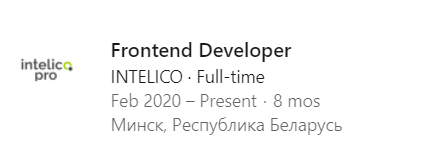
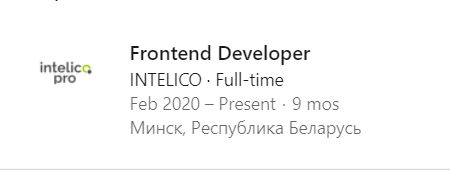
feat: intelico exp update

diff --git a/src/components/Main/Profile.js b/src/components/Main/Profile.js
@@ -1,7 +1,7 @@
 import React from 'react';
 import { useTranslation } from 'react-i18next';
 
-import Intelico from '../../assets/jobScreens/Intelico.png';
+import Intelico from '../../assets/jobScreens/intelico.png';
 
 const Profile = () => {
     const { t } = useTranslation();
